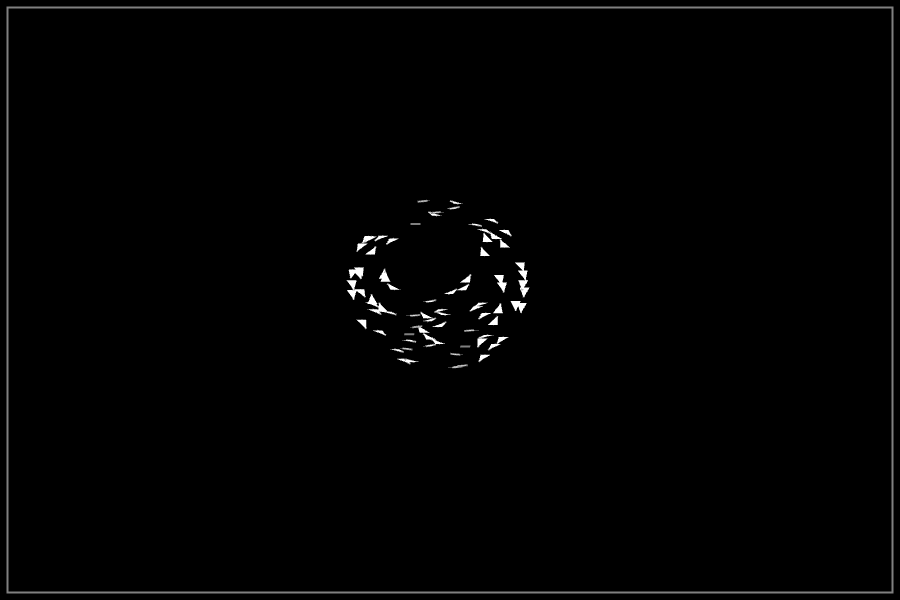
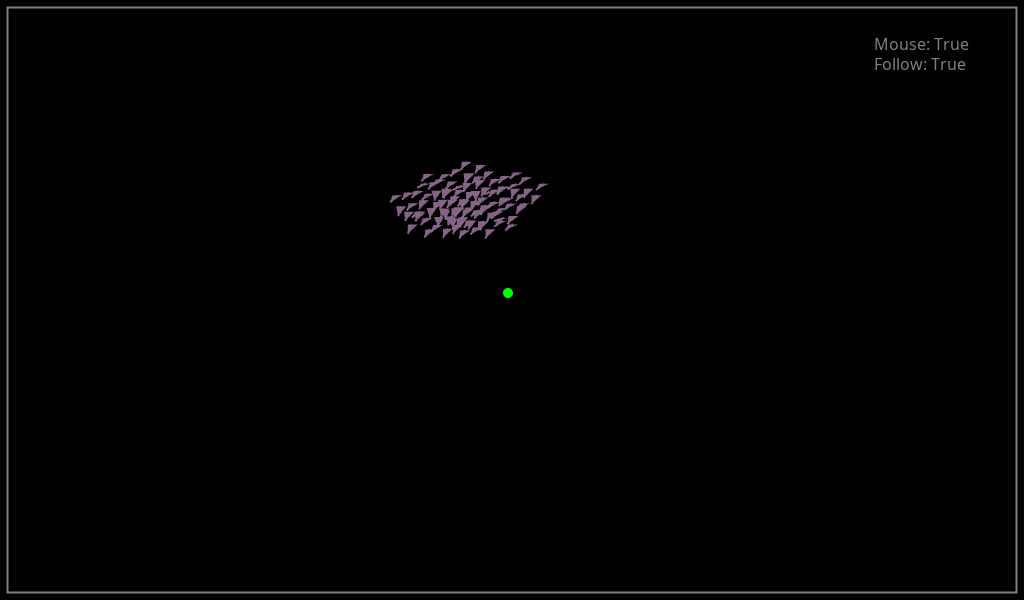
Feature - addition of mouse chasing

diff --git a/boids.py b/boids.py
@@ -112,7 +112,11 @@ class Boid():
             arcade.draw_circle_outline(self.x, self.y, self.range_min, (255, 0, 0, 200), 2, 0)
 
     # def move(self, boids_x: list, boids_y: list, boids_vel_x: list, boids_vel_y: list) -> None:
-    def move(self, boid_flock: list) -> None:
+    def move(self,
+             boid_flock: list,
+             mouse_x: float,
+             mouse_y: float,
+             mouse_chase: bool) -> None:
         """
         Move the boid
         """
@@ -123,6 +127,8 @@ class Boid():
         cohesion_xavg: float = 0
         cohesion_yavg: float = 0
         neighbour_count: int = 0
+        mouse_velx: float = 0
+        mouse_vely: float = 0
 
         # Get the flock position and velocity data
         for boid in boid_flock:
@@ -142,6 +148,7 @@ class Boid():
         seperation_factor = 0.1
         alignment_factor = 0.05
         cohesion_factor = 0.01
+        mouse_factor = 0.005
 
         seperation_x = seperation_dx * seperation_factor
         seperation_y = separation_dy * seperation_factor
@@ -150,16 +157,31 @@ class Boid():
         cohesion_x = ((cohesion_xavg / neighbour_count) - self.x) * cohesion_factor
         cohesion_y = ((cohesion_yavg / neighbour_count) - self.y) * cohesion_factor
 
+        if 0 < mouse_x and 0 < mouse_y:
+            dx = mouse_x - self.x
+            dy = mouse_y - self.y
+            distance = sqrt(dx ** 2 + dy ** 2)
+
+            if mouse_chase:
+                mouse_velx = dx * mouse_factor
+                mouse_vely = dy * mouse_factor
+            else:
+                mouse_velx = (-dx / distance) * mouse_factor * 10
+                mouse_vely = (-dy / distance) * mouse_factor * 10
+
         # Update velocity with boid properties
-        self.vel_x += seperation_x + alignment_x + cohesion_x
-        self.vel_y += seperation_y + alignment_y + cohesion_y
+        self.vel_x += seperation_x + alignment_x + cohesion_x + mouse_velx
+        self.vel_y += seperation_y + alignment_y + cohesion_y + mouse_vely
 
         # Set speed limits
         speed = sqrt(self.vel_x * self.vel_x + self.vel_y * self.vel_y)
-        if speed > self.speed_max:
+        if speed == 0:
+            self.vel_x = self.speed_min
+            self.vel_y = self.speed_min
+        elif speed > self.speed_max:
             self.vel_x = (self.vel_x / speed) * self.speed_max
             self.vel_y = (self.vel_y / speed) * self.speed_max
-        if speed < self.speed_min:
+        elif speed < self.speed_min:
             self.vel_x = (self.vel_x / speed) * self.speed_min
             self.vel_y = (self.vel_y / speed) * self.speed_min
 

diff --git a/flock.py b/flock.py
@@ -17,6 +17,8 @@ MAXBOIDS: int = int(os.getenv('MAXBOIDS'))
 RANGE_MIN: int = int(os.getenv('RANGE_MIN'))
 RANGE_FOV: int = int(os.getenv('RANGE_FOV'))
 
+BUTTON_LEFT: int = 1
+BUTTON_RIGHT: int = 4
 
 class Flock(Window):
     boids_list: list = []
@@ -30,6 +32,11 @@ class Flock(Window):
     buffer: int = 15
     debug: bool = False
     colour: list = []
+
+    mouse_active: bool = False
+    mouse_chase: bool = True
+    mouse_x:float = 0
+    mouse_y: float = 0
 
     def __init__(self):
         """
@@ -78,7 +85,7 @@ class Flock(Window):
 
     def on_update(self, delta_time: float):
         for key, boid in enumerate(self.boids_list):
-            boid.move(self.boids_list)
+            boid.move(self.boids_list, self.mouse_x, self.mouse_y, self.mouse_chase)
 
             self.boids_x[key] = boid.x
             self.boids_y[key] = boid.y
@@ -94,6 +101,25 @@ class Flock(Window):
                                       2,
                                       0)
 
+        # Add Text
+        arcade.draw_text(f"Mouse: {self.mouse_active}",
+                    WIDTH - 150,
+                    HEIGHT - 50,
+                    [255, 255, 255, 128],
+                    12)
+        arcade.draw_text(f"Follow: {self.mouse_chase}",
+                         WIDTH - 150,
+                         HEIGHT - 70,
+                         [255, 255, 255, 128],
+                         12)
+
+        # Draw mouse
+        if self.mouse_active:
+            arcade.draw_circle_filled(self.mouse_x,
+                                      self.mouse_y,
+                                      5,
+                                      arcade.color.GREEN)
+
         # Draw the boid average position
         if self.debug:
             self.avg_x = fmean(self.boids_x)
@@ -104,3 +130,21 @@ class Flock(Window):
             boid.draw()
             if self.debug:
                 boid.debug_vals()
+
+    def on_mouse_motion(self, x, y, dx, dy):
+        """
+        Called whenever the mouse moves.
+        """
+        if self.mouse_active:
+            self.mouse_x = x
+            self.mouse_y = y
+        else:
+            self.mouse_x = 0
+            self.mouse_y = 0
+
+    def on_mouse_press(self, x, y, button, modifiers):
+        if button == BUTTON_LEFT:
+            self.mouse_active = not self.mouse_active
+
+        if button == BUTTON_RIGHT:
+            self.mouse_chase = not self.mouse_chase

diff --git a/README.md b/README.md
@@ -12,6 +12,16 @@ Boids are a way to represent a complex system using a set of simple rules. This 
 
 ![boids.png](boids.png)
 
+Boids chase the mouse when active, status is reported in the top right.
+Mouse:
+- False: Mouse not active
+- True: Boids will chase the mouse
+Follow:
+- True: Boids will follow the mouse
+- False: Boids will run away from the mouse
+
+![boids.png](boids.gif)
+
 ### Setup
 
 1. Install the required packages
